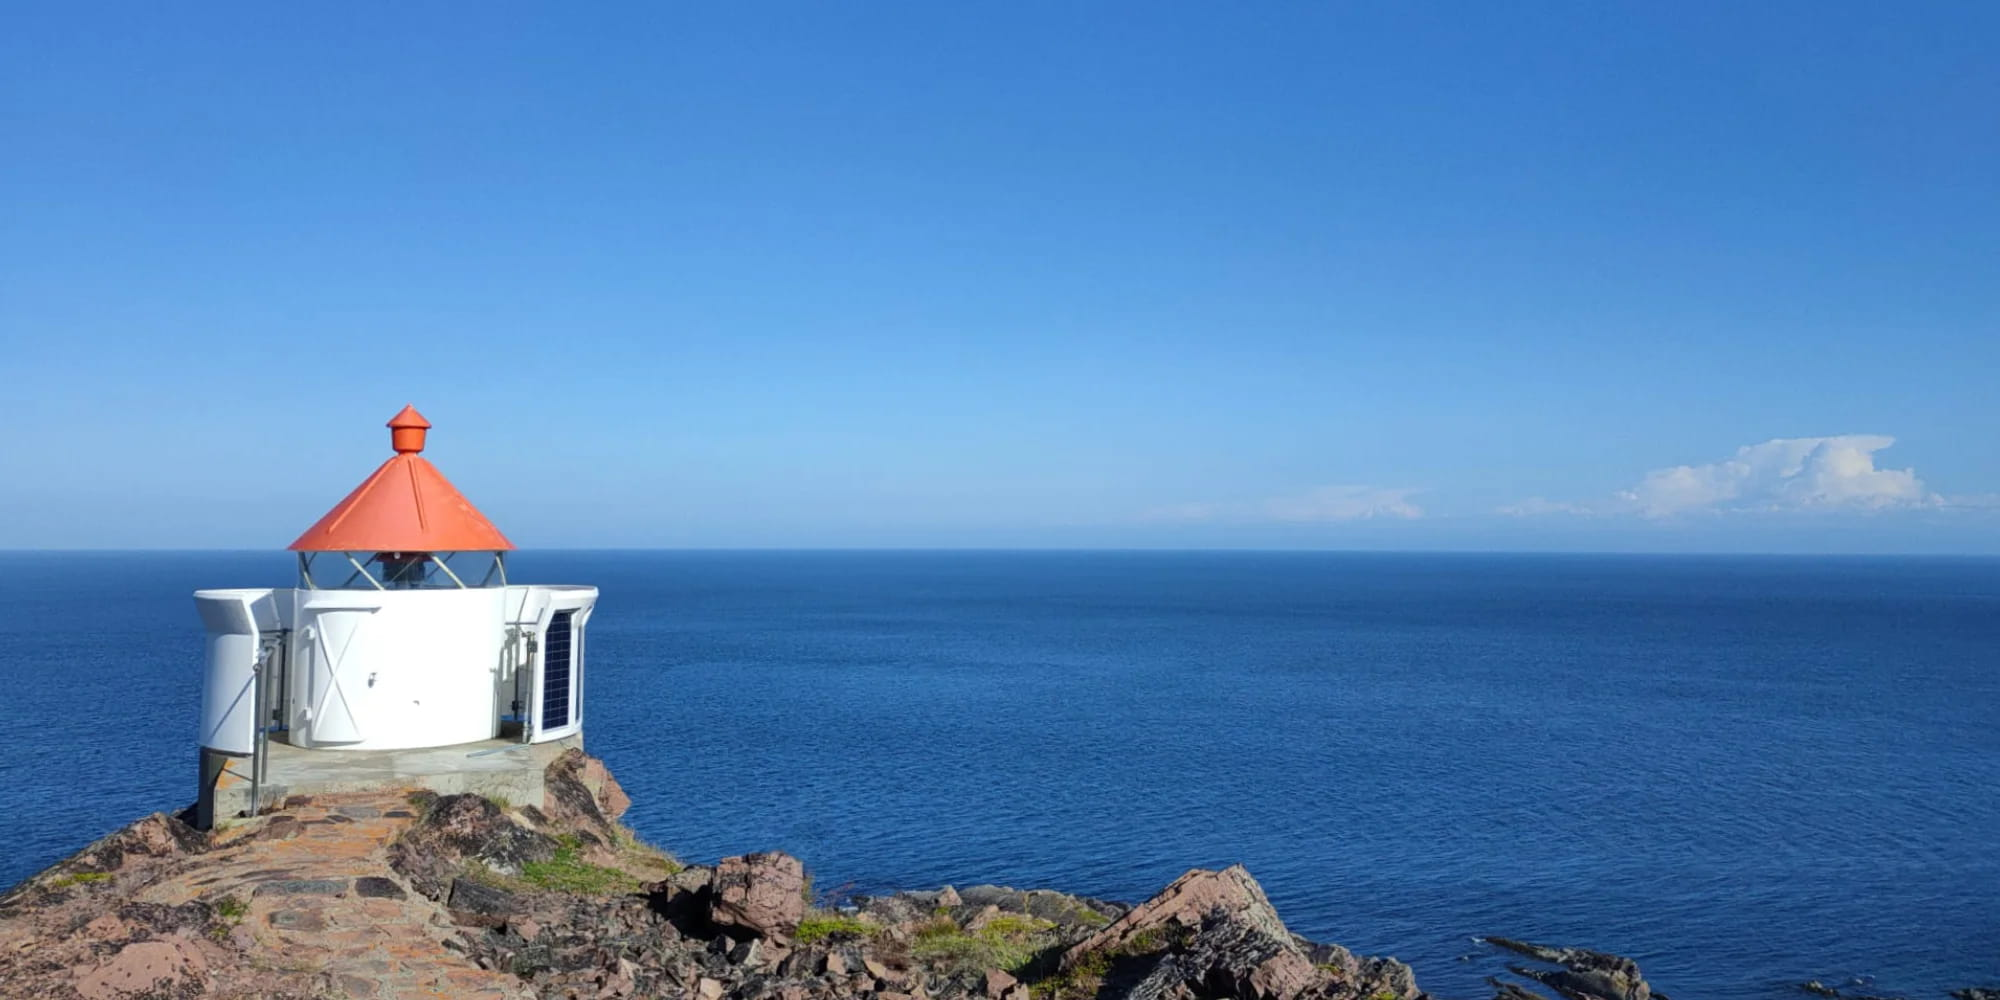
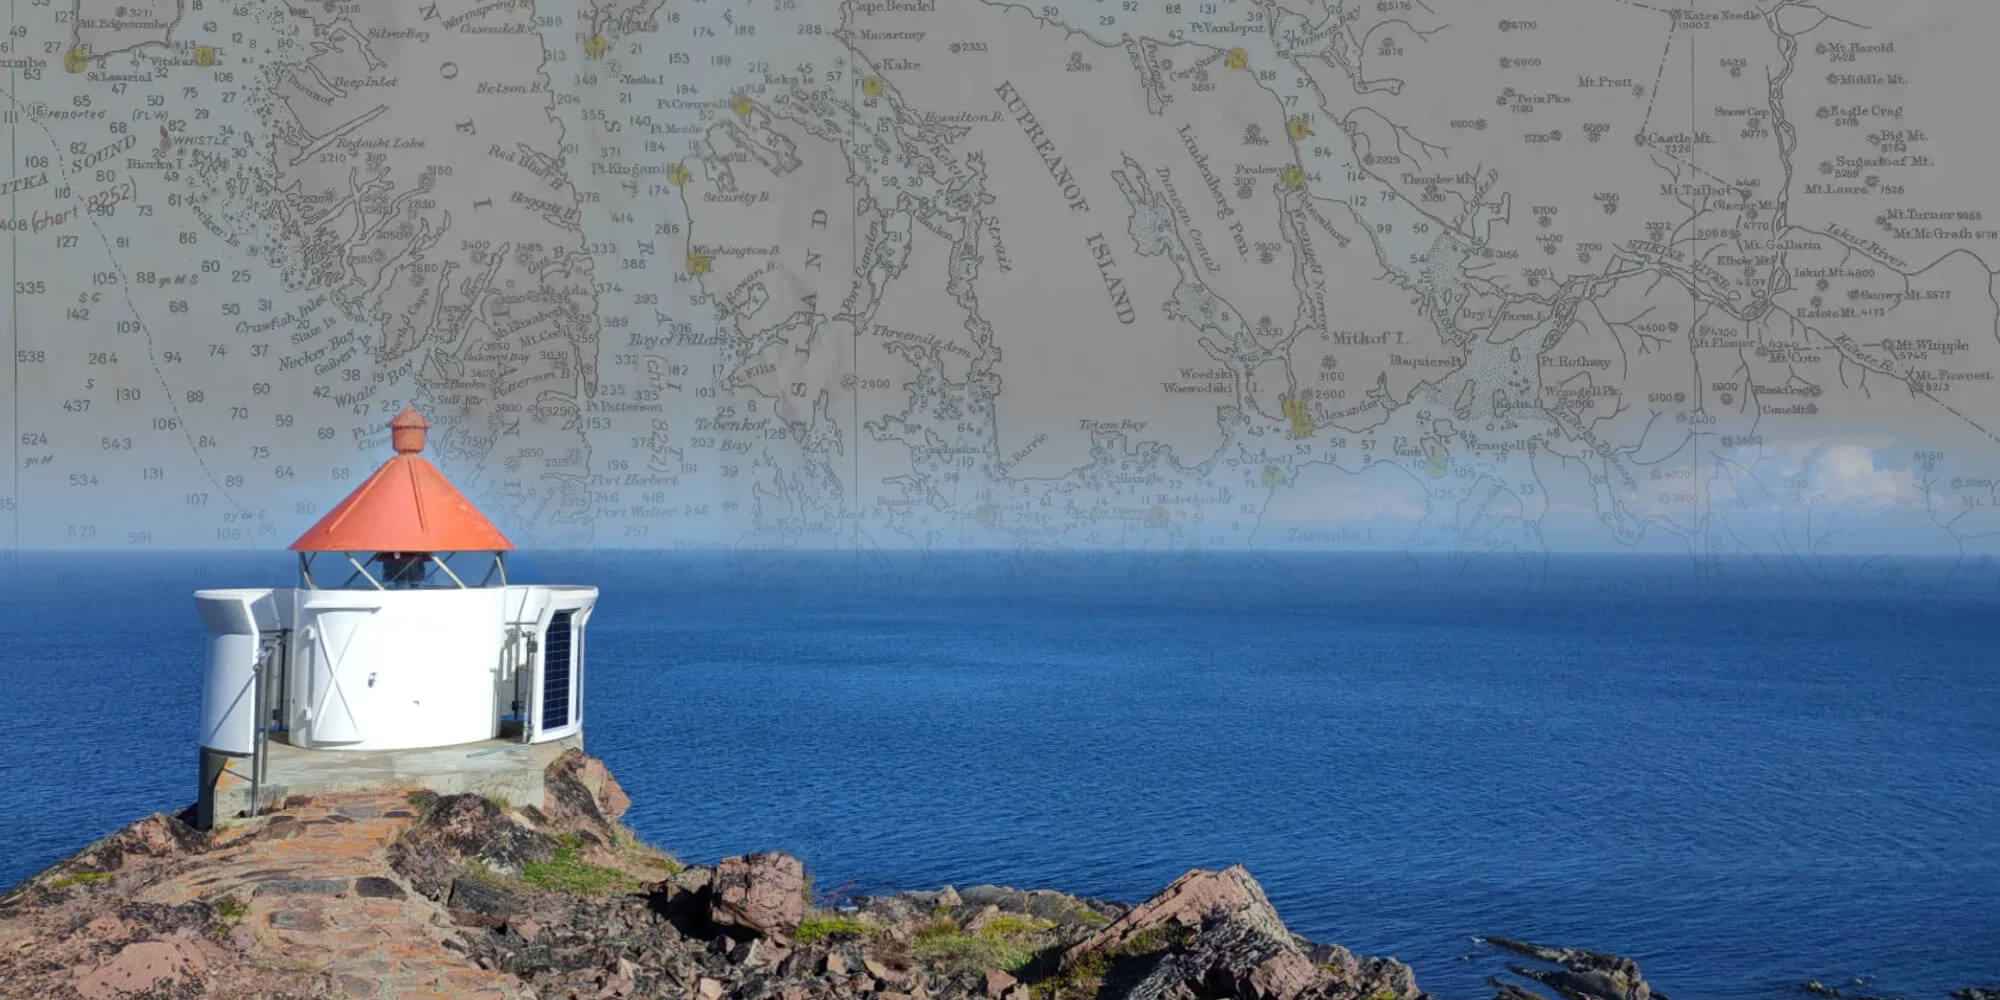
change marine links slideshow

diff --git a/src/app/[locale]/marine_links/page.tsx b/src/app/[locale]/marine_links/page.tsx
@@ -75,14 +75,13 @@ export default function Page() {
               }}
             ></div>
           </div>
-          <div className='map-overlay'></div>
         </figure>
         <article className='relative z-10 w-full min-h-[100vh] flex flex-col items-center justify-start pt-24 md:pt-28 lg:pt-[20vh] pb-12'>
           <header className='w-full flex flex-col items-center'>
             <h1
               data-aos='zoom-in'
               data-aos-duration='700'
-              className='font-["PlayBold"] drop-shadow-[0_0_1rem_#A8C8EA] text-2xl md:text-2xl lg:text-4xl 
+              className='font-["PlayBold"] drop-shadow-[0_0_1rem_#A8C8EA] text-2xl md:text-2xl lg:text-4xl
               font-normal text-center tracking-widest uppercase px-4 py-2 w-full text-white'
             >
               {t('title')}
@@ -138,10 +137,10 @@ export default function Page() {
                           target='_blank'
                           className='
                           font-semibold
-                            text-l md:text-xl lg:text-2xl 
-                            text-center tracking-widest cursor-pointer capitalize 
+                            text-l md:text-xl lg:text-2xl
+                            text-center tracking-widest cursor-pointer capitalize
                             text-white no-underline rounded-md font-normal
-                            pr-2 
+                            pr-2
                             flex justify-center content-center py-2 md:py-0
                             hover:underline
                         '
